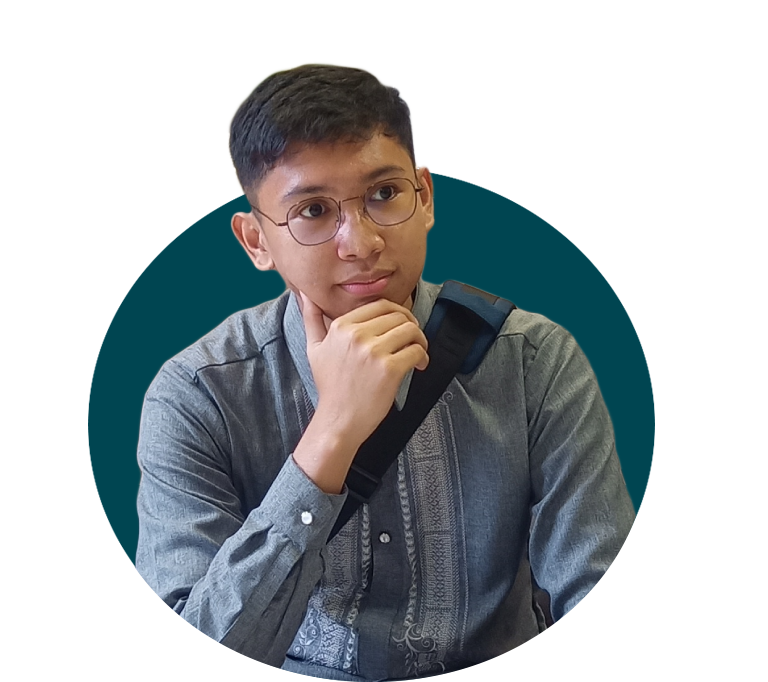
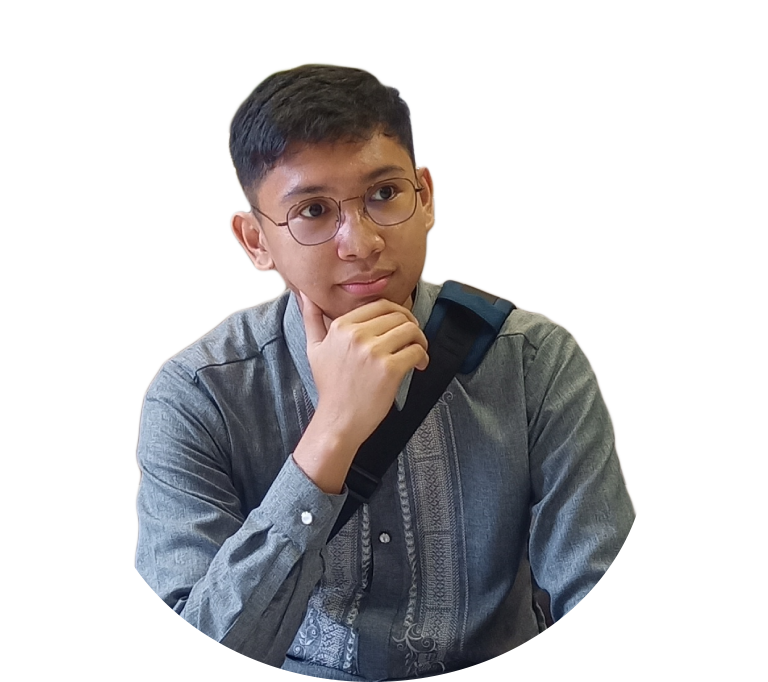
"Updated images and styles in HeroSection and Background components"

Changed region(s): [[0.5312, 0.2463, 0.875, 0.7698], [0.0938, 0.2771, 0.375, 0.8314]]

diff --git a/src/app/containers/hero/HeroSection.tsx b/src/app/containers/hero/HeroSection.tsx
@@ -7,13 +7,20 @@ const HeroSection = () => {
       {/* The w-full and h-screen classes make the div cover the full screen */}
       <div className="flex items-center">
         <div className="flex flex-row">
-          <Image
-            src="/ForPortfolio.png"
-            alt="Sorence"
-            width={480}
-            height={480}
-            className=""
-          />
+          <div className=" relative">
+            <Image
+              src="/ForPortfolio.png"
+              alt="Sorence"
+              width={480}
+              height={480}
+              className="z-20"
+            />
+            <div
+              id="bgForPicture"
+              className=" absolute top-[103px] left-[56px] -z-10 bg-forbentobg w-[354px] h-[320px] rounded-full"
+            ></div>
+          </div>
+
           <div className=" -ml-60">
             <h1 className=" text-heroheading7rem font-heroheading7rem">
               Sorence
@@ -23,13 +30,6 @@ const HeroSection = () => {
             </h1>
           </div>
         </div>
-        <Image
-          src="/ForPortfolio1.png"
-          alt="Sorence"
-          width={480}
-          height={480}
-          className="absolute"
-        />
       </div>
     </main>
   );

diff --git a/src/app/components/Background.tsx b/src/app/components/Background.tsx
@@ -35,7 +35,7 @@ const Background = () => {
         width: "100%",
         top: 0,
         left: 0,
-        zIndex: -10, // Set z-index to ensure it's behind all other components
+        zIndex: -50, // Set z-index to ensure it's behind all other components
       }}
     >
       {[...Array(20)].map((_, rowIndex) => (
